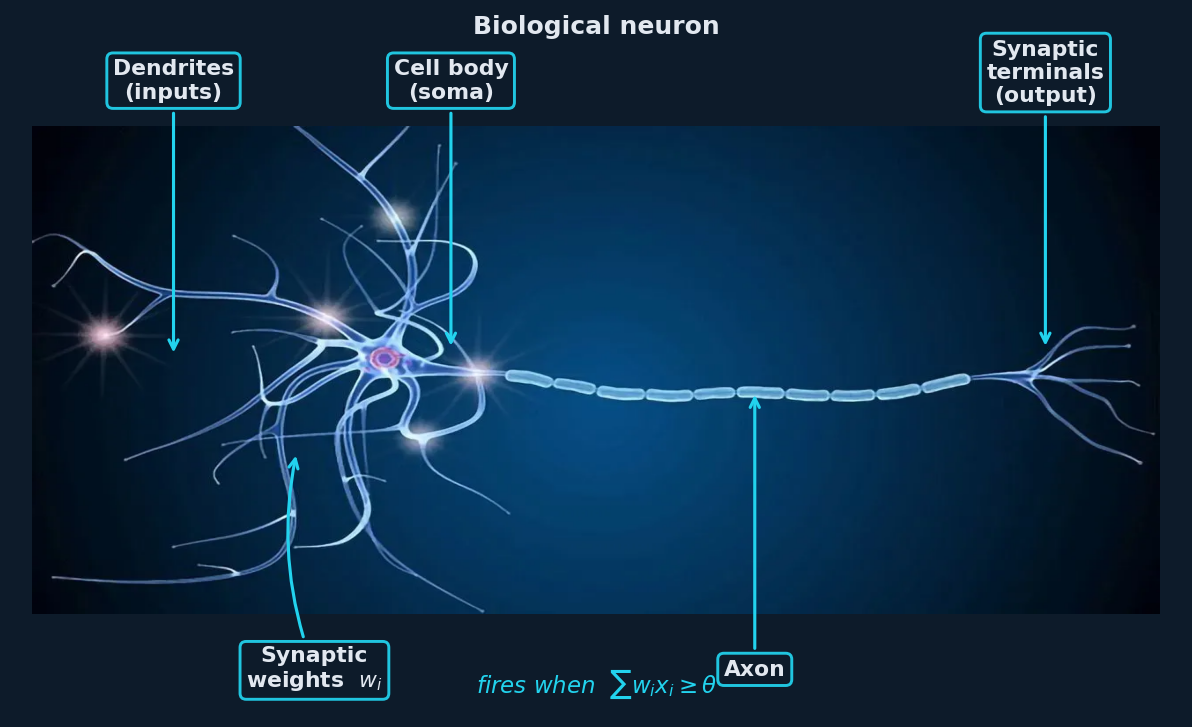
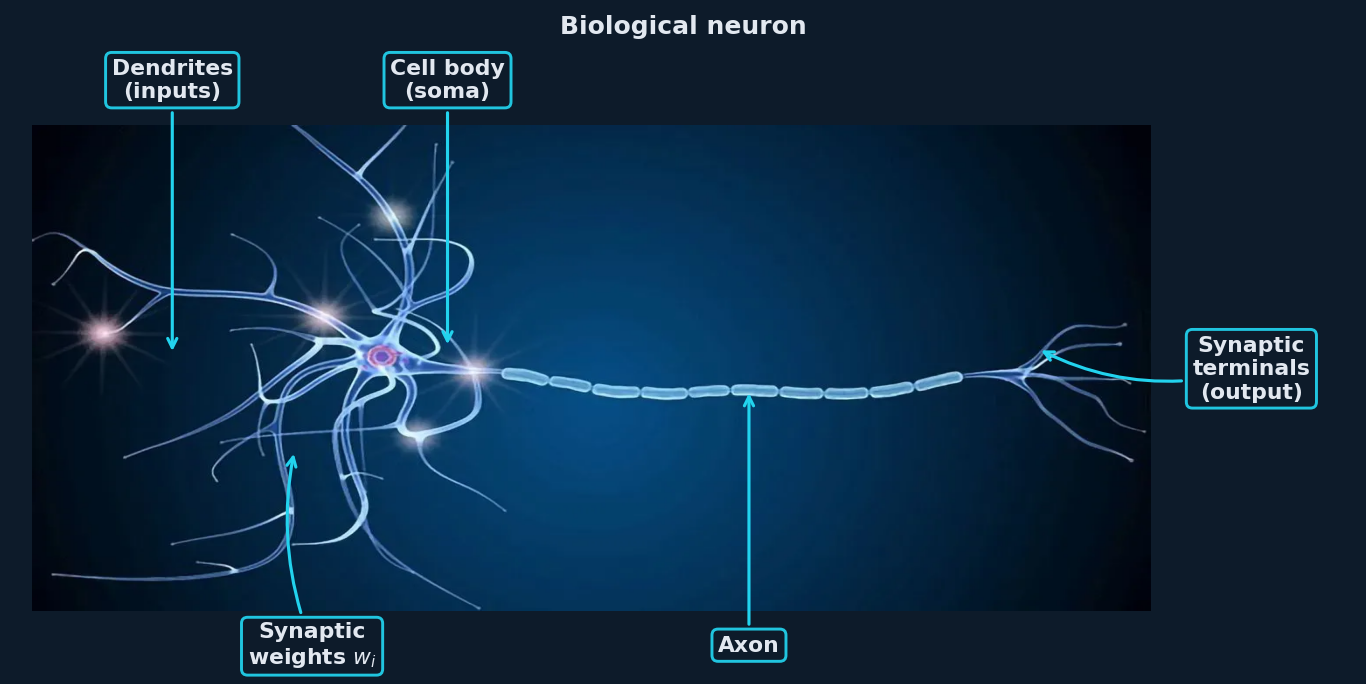
Fix MP slide layout: aspect ratio, font sizes, annotation positions
- CSS: switch to height:auto + max-width:100% to preserve aspect ratio
- Bio image: margin-top:1em to clear portrait overlay, pushed down
- Art image: larger fonts (~1.6x), output node not clipped
- Threshold box: Binary threshold label moved below box (no overlap)
- θ label centred vertically at step transition
- xlim extended to 11.2 so output node/label fully visible
- Bio annotations: Synaptic terminals moved to right side
- Bio figure: removed 'fires when' caption

diff --git a/gen_neuron.py b/gen_neuron.py
@@ -17,14 +17,17 @@ bio_img = mpimg.imread('assets/biological_neuron1.png')
 H, W = bio_img.shape[:2]   # 720 × 1280
 
 # ── Figure 1: annotated biological neuron ────────────────────────────────────
-fig1, ax = plt.subplots(figsize=(10, 5.8), facecolor=BG)
+# Extra right margin for the "Synaptic terminals" label placed to the right
+R_PAD = 230
+PAD_T = 125
+PAD_B = 80   # reduced — no "fires when" text any more
+
+fig1, ax = plt.subplots(figsize=(11.5, 5.4), facecolor=BG)
 ax.set_facecolor(BG)
 ax.axis('off')
 ax.imshow(bio_img, zorder=1, aspect='auto')
 
-PAD_T = 125
-PAD_B = 145
-ax.set_xlim(-20, W + 20)
+ax.set_xlim(-20, W + R_PAD)
 ax.set_ylim(H + PAD_B, -PAD_T)
 
 def ann(ax_, label, lx, ly, px, py, rad=0.0):
@@ -41,21 +44,16 @@ def ann(ax_, label, lx, ly, px, py, rad=0.0):
         zorder=5
     )
 
-# anatomy approx positions (1280×720, y=0 top):
-#   dendrites/inputs  ~(160, 340)
-#   soma (pink)       ~(470, 330)
-#   axon midpoint     ~(820, 380)
-#   terminals         ~(1150, 330)
-#   synaptic weights  ~(300, 480)
-ann(ax, 'Dendrites\n(inputs)',            160,  -68,  160,  340, rad= 0.0)
-ann(ax, 'Cell body\n(soma)',              475,  -68,  475,  330, rad= 0.0)
-ann(ax, 'Synaptic\nterminals\n(output)', 1150,  -80, 1150,  330, rad= 0.0)
-ann(ax, 'Axon',                           820, H+82,  820,  390, rad= 0.0)
-ann(ax, 'Synaptic\nweights  $w_i$',       320, H+82,  300,  480, rad=-0.15)
+# Dendrites and soma: labels above the image (ly < 0)
+ann(ax, 'Dendrites\n(inputs)',     160,  -68,  160, 340, rad= 0.0)
+ann(ax, 'Cell body\n(soma)',       475,  -68,  475, 330, rad= 0.0)
 
-ax.text(W / 2, H + PAD_B - 16,
-        r'fires when  $\sum w_i x_i \geq \theta$',
-        color=CYAN, fontsize=11, ha='center', va='bottom', style='italic')
+# Synaptic terminals: label to the RIGHT of the image (lx > W)
+ann(ax, 'Synaptic\nterminals\n(output)', W + 115, H // 2, 1150, 330, rad=-0.20)
+
+# Axon and weights: labels below the image (ly > H)
+ann(ax, 'Axon',                    820, H + 50,  820, 390, rad= 0.0)
+ann(ax, 'Synaptic\nweights $w_i$', 320, H + 50,  300, 480, rad=-0.15)
 
 ax.set_title('Biological neuron', color=WHITE, fontsize=12,
              fontweight='bold', pad=4)
@@ -66,95 +64,99 @@ plt.close(fig1)
 print("Saved bio_neuron_annotated.png")
 
 # ── Figure 2: McCulloch–Pitts artificial neuron ──────────────────────────────
-fig2, ax = plt.subplots(figsize=(11, 4.6), facecolor=BG)
+# Designed for display at ~540px wide / ~280px tall in a reveal.js column.
+# Use 100 dpi so fonts appear larger at final display size.
+fig2, ax = plt.subplots(figsize=(9.5, 5.0), facecolor=BG)
 ax.set_facecolor(BG)
 ax.axis('off')
-ax.set_xlim(0, 11)
-ax.set_ylim(0, 10)
+ax.set_xlim(0, 11.2)
+ax.set_ylim(-1.5, 10)   # extra room below for labels
 
-sig_x, sig_y = 4.8, 5.0
+sig_x, sig_y = 4.2, 5.2
 
 # Input nodes + weighted arrows
 for (lbl, ix, iy), wl in zip(
-        [('x₃', 1.0, 7.8), ('x₂', 1.0, 5.0), ('x₁', 1.0, 2.2)],
+        [('x₃', 0.85, 8.0), ('x₂', 0.85, 5.2), ('x₁', 0.85, 2.4)],
         ['w₃', 'w₂', 'w₁']):
-    ax.add_patch(Ellipse((ix, iy), 1.3, 1.1,
+    ax.add_patch(Ellipse((ix, iy), 1.25, 1.05,
                          facecolor=DARK, edgecolor=CYAN2, lw=2, zorder=4))
-    ax.text(ix, iy, lbl, color=WHITE, fontsize=12, ha='center', va='center',
+    ax.text(ix, iy, lbl, color=WHITE, fontsize=16, ha='center', va='center',
             fontweight='bold', zorder=5)
-    ax.annotate('', xy=(sig_x - 0.90, sig_y + (iy - sig_y) * 0.13),
-                xytext=(ix + 0.65, iy),
-                arrowprops=dict(arrowstyle='->', color=CYAN, lw=1.8,
-                                mutation_scale=12), zorder=3)
-    # weight label — brighter and larger
-    mx = (ix + 0.65 + sig_x - 0.90) / 2 - 0.1
-    my = (iy + sig_y + (iy - sig_y) * 0.13) / 2 + 0.12
-    ax.text(mx, my, wl, color=CYAN2, fontsize=10.5, ha='center', va='center',
+    ax.annotate('', xy=(sig_x - 0.88, sig_y + (iy - sig_y) * 0.14),
+                xytext=(ix + 0.63, iy),
+                arrowprops=dict(arrowstyle='->', color=CYAN, lw=2.0,
+                                mutation_scale=13), zorder=3)
+    mx = (ix + 0.63 + sig_x - 0.88) / 2
+    my = (iy + sig_y + (iy - sig_y) * 0.14) / 2 + 0.15
+    ax.text(mx, my, wl, color=CYAN2, fontsize=13, ha='center', va='center',
             fontweight='bold')
 
-ax.text(1.0, 0.85, 'Binary inputs', color=GRAY, fontsize=9, ha='center')
+ax.text(0.85, 1.2, 'Binary inputs', color=GRAY, fontsize=12, ha='center')
 
 # Sigma node
-ax.add_patch(Ellipse((sig_x, sig_y), 1.9, 1.7,
+ax.add_patch(Ellipse((sig_x, sig_y), 1.85, 1.65,
                      facecolor=DARK, edgecolor=CYAN, lw=2.5, zorder=4))
-ax.text(sig_x, sig_y + 0.08, 'Σ', color=CYAN, fontsize=22, ha='center', va='center',
-        fontweight='bold', zorder=5)
+ax.text(sig_x, sig_y + 0.08, 'Σ', color=CYAN, fontsize=26, ha='center',
+        va='center', fontweight='bold', zorder=5)
 ax.text(sig_x, sig_y - 1.45, r'$\Sigma\,w_i x_i$', color=GRAY,
-        fontsize=9.5, ha='center')
+        fontsize=13, ha='center')
 
 # Arrow sigma → threshold
-ax.annotate('', xy=(6.85, sig_y), xytext=(sig_x + 0.95, sig_y),
-            arrowprops=dict(arrowstyle='->', color=CYAN, lw=1.8,
-                            mutation_scale=12), zorder=3)
+bx0, bx1 = 5.65, 8.10
+by0, by1 = sig_y - 0.88, sig_y + 0.88
+ax.annotate('', xy=(bx0, sig_y), xytext=(sig_x + 0.93, sig_y),
+            arrowprops=dict(arrowstyle='->', color=CYAN, lw=2.0,
+                            mutation_scale=13), zorder=3)
 
-# Threshold box — draw a Heaviside step function inside instead of text
-bx0, bx1 = 6.85, 9.05
-by0, by1 = sig_y - 0.85, sig_y + 0.85
+# Threshold box
 ax.add_patch(FancyBboxPatch((bx0, by0), bx1 - bx0, by1 - by0,
                             boxstyle='round,pad=0.08',
                             facecolor='#2d1515', edgecolor=RED, lw=2.5, zorder=4))
 
 # Heaviside step function drawn inside the box
-mid_x = (bx0 + bx1) / 2        # ≈ 7.95
-step_lo_y = sig_y - 0.50
-step_hi_y = sig_y + 0.52
-margin_x = 0.52
-# horizontal baseline → step → plateau
-sx = [bx0 + margin_x, mid_x, mid_x, bx1 - margin_x]
-sy_ = [step_lo_y,     step_lo_y, step_hi_y, step_hi_y]
-ax.plot(sx, sy_, color=RED, lw=2.2, solid_joinstyle='miter', zorder=6)
-# dashed vertical at θ
-ax.plot([mid_x, mid_x], [step_lo_y - 0.08, step_hi_y + 0.08],
-        color=RED, lw=1.1, linestyle='--', alpha=0.55, zorder=6)
-# θ label below the step
-ax.text(mid_x, by0 + 0.08, 'θ', color=RED, fontsize=10.5,
-        ha='center', va='bottom', fontstyle='italic', zorder=7)
-# "0" and "1" level markers
-ax.text(bx0 + 0.12, step_lo_y, '0', color=RED, fontsize=8, ha='left',
+mid_x   = (bx0 + bx1) / 2        # x position of the threshold
+margin  = 0.48
+step_lo = sig_y - 0.55
+step_hi = sig_y + 0.55
+sx = [bx0 + margin, mid_x,  mid_x,  bx1 - margin]
+sy = [step_lo,      step_lo, step_hi, step_hi]
+ax.plot(sx, sy, color=RED, lw=2.5, solid_joinstyle='miter', zorder=6)
+ax.plot([mid_x, mid_x], [step_lo - 0.05, step_hi + 0.05],
+        color=RED, lw=1.1, linestyle='--', alpha=0.5, zorder=6)
+
+# θ label at the step transition, centred vertically between 0 and 1
+ax.text(mid_x, (step_lo + step_hi) / 2, 'θ', color=RED, fontsize=14,
+        ha='left', va='center', fontstyle='italic', zorder=7,
+        bbox=dict(boxstyle='square,pad=0.05', facecolor='none',
+                  edgecolor='none', alpha=0.0))
+# output level markers on the left edge of the step
+ax.text(bx0 + 0.12, step_lo, '0', color=RED, fontsize=10.5, ha='left',
         va='center', alpha=0.75, zorder=7)
-ax.text(bx0 + 0.12, step_hi_y, '1', color=RED, fontsize=8, ha='left',
+ax.text(bx0 + 0.12, step_hi, '1', color=RED, fontsize=10.5, ha='left',
         va='center', alpha=0.75, zorder=7)
 
-ax.text((bx0 + bx1) / 2, by0 - 0.30, 'Binary threshold',
-        color=RED, fontsize=9, ha='center')
+# "Binary threshold" label BELOW the box — clear of step function
+ax.text((bx0 + bx1) / 2, by0 - 0.35, 'Binary threshold',
+        color=RED, fontsize=12, ha='center', va='top',
+        fontweight='bold', zorder=7)
 
 # Arrow threshold → output
-ax.annotate('', xy=(9.60, sig_y), xytext=(bx1, sig_y),
-            arrowprops=dict(arrowstyle='->', color=CYAN, lw=1.8,
-                            mutation_scale=12), zorder=3)
+ax.annotate('', xy=(8.65, sig_y), xytext=(bx1, sig_y),
+            arrowprops=dict(arrowstyle='->', color=CYAN, lw=2.0,
+                            mutation_scale=13), zorder=3)
 
 # Output node
-ax.add_patch(Circle((10.05, sig_y), 0.60,
+ax.add_patch(Circle((9.15, sig_y), 0.62,
                     facecolor=DARK, edgecolor=CYAN2, lw=2, zorder=4))
-ax.text(10.05, sig_y, 'y', color=CYAN2, fontsize=14, ha='center', va='center',
+ax.text(9.15, sig_y, 'y', color=CYAN2, fontsize=18, ha='center', va='center',
         fontweight='bold', zorder=5)
-ax.text(10.05, sig_y - 1.20, 'Binary output\n(0 or 1)',
-        color=GRAY, fontsize=9, ha='center', linespacing=1.35)
+ax.text(9.15, sig_y - 1.45, 'Binary output\n(0 or 1)',
+        color=GRAY, fontsize=12, ha='center', linespacing=1.35)
 
 ax.set_title('McCulloch–Pitts artificial neuron (1943)',
-             color=WHITE, fontsize=12, fontweight='bold', pad=6)
+             color=WHITE, fontsize=14, fontweight='bold', pad=8)
 
 fig2.savefig('assets/mp_artificial_neuron.png',
-             dpi=150, bbox_inches='tight', facecolor=BG, edgecolor='none')
+             dpi=100, bbox_inches='tight', facecolor=BG, edgecolor='none')
 plt.close(fig2)
 print("Saved mp_artificial_neuron.png")
